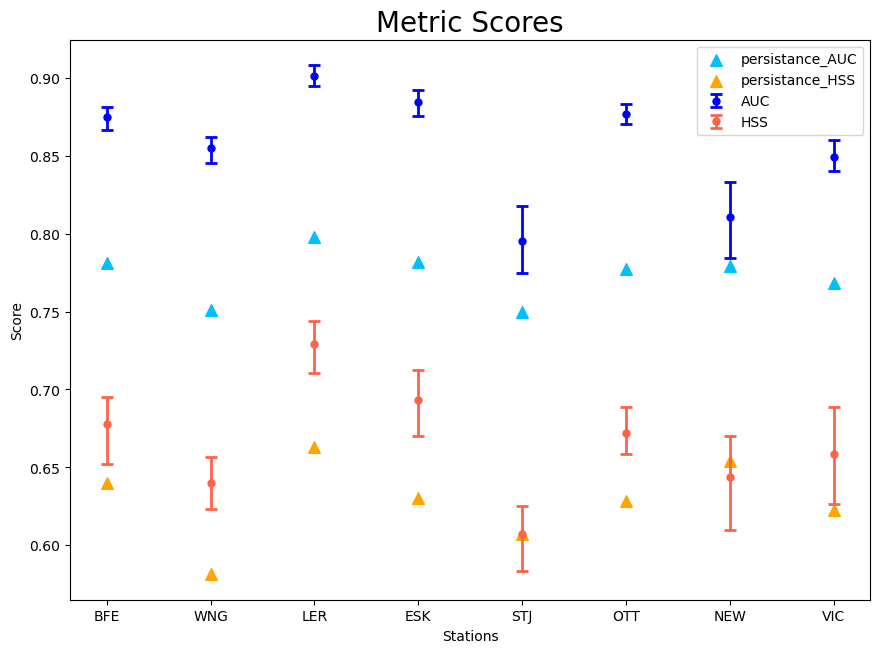
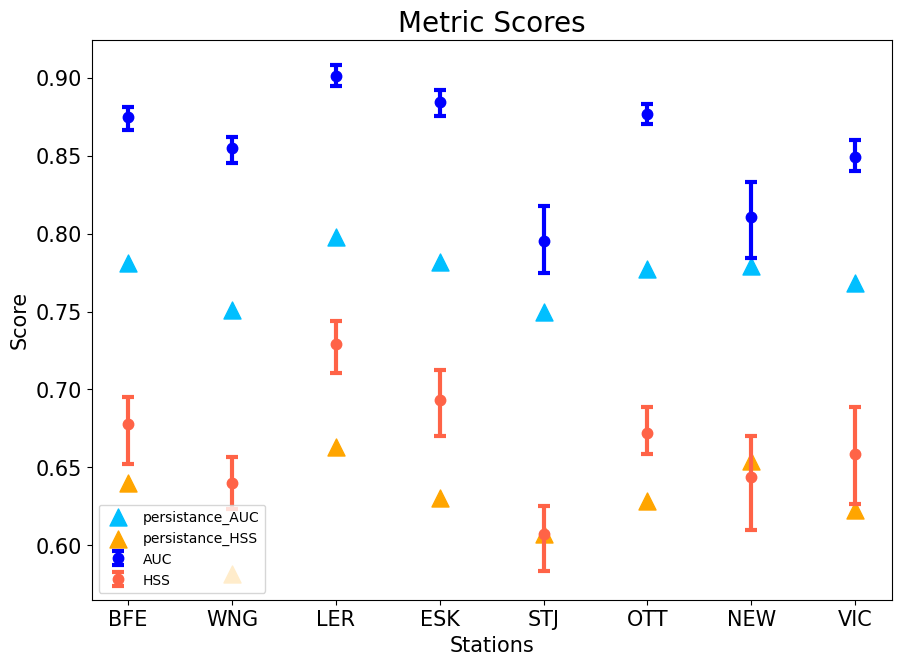
changing figs

diff --git a/plotting.py b/plotting.py
@@ -206,15 +206,15 @@ def plot_total_metrics(metrics_dict, stations, metrics=['HSS', 'AUC', 'RMSE']):
 		ymin0 = y0 - ymin0
 
 
-		ax.errorbar(X, y0, yerr=[ymin0, ymax0], fmt='.', color=color0, label='{0}'.format(metric), elinewidth=2, markersize=10, capsize=4, capthick=2)		# plotting the center point with the error bars. list order is important in the y array so it cooresponds to the x label
-		ax.scatter(X, metrics_dict['pers_{0}'.format(metric)], marker='^', color=color1, label='persistance_{0}'.format(metric), s=70)
+		ax.errorbar(X, y0, yerr=[ymin0, ymax0], fmt='.', color=color0, label='{0}'.format(metric), elinewidth=3, markersize=15, capsize=4, capthick=3)		# plotting the center point with the error bars. list order is important in the y array so it cooresponds to the x label
+		ax.scatter(X, metrics_dict['pers_{0}'.format(metric)], marker='^', color=color1, label='persistance_{0}'.format(metric), s=150)
 	# plt.ylim(0,1)																# keeping the plot within limits to eliminate as much white space as possible.
 	# plt.xlim(0,70)
-	plt.xlabel('Stations', fontsize='10')			# adding the label on the x axis label
-	plt.ylabel('Score', fontsize='10')				# adding teh y axis label
-	plt.xticks(X, stations, fontsize='10')		# adding ticks to the points on the x axis
-	plt.yticks(fontsize='10')						# making the y ticks a bit bigger. They're a bit more important
-	plt.legend(fontsize='10')
+	plt.xlabel('Stations', fontsize='15')			# adding the label on the x axis label
+	plt.ylabel('Score', fontsize='15')				# adding teh y axis label
+	plt.xticks(X, stations, fontsize='15')		# adding ticks to the points on the x axis
+	plt.yticks(fontsize='15')						# making the y ticks a bit bigger. They're a bit more important
+	plt.legend(fontsize='10', loc='lower left')
 
 	plt.savefig('plots/metrics_total.png', bbox_inches='tight')
 

diff --git a/data_distributions.py b/data_distributions.py
@@ -388,11 +388,11 @@ def plotting_data_distributions(all_data, train_data, test_data):
 	# ax.errorbar(x0, y0, yerr=[0,ystd0], fmt='.k', color='blue', label='All Data', elinewidth=5, markersize=50, capsize=25, capthick=5)		# plotting the center point with the error bars. list order is important in the y array so it cooresponds to the x label
 	# ax.errorbar(x1, y1, yerr=[0,ystd1], fmt='.k', color='orange', label='Train Data', elinewidth=5, markersize=50, capsize=25, capthick=5)		# plotting the center point with the error bars. list order is important in the y array so it cooresponds to the x label
 	# ax.errorbar(x2, y2, yerr=[0,ystd2], fmt='.k', color='green', label='Test Data', elinewidth=5, markersize=50, capsize=25, capthick=5)		# plotting the center point with the error bars. list order is important in the y array so it cooresponds to the x label
-	ax.scatter(x1, y0, marker='.', color='blue', label='All Data Mean', s=200)
+	ax.scatter(x1, y0, marker='s', color='blue', label='All Data Mean', s=100)
 	ax.scatter(x1, ystd0, marker='^', color='blue', label='All Data std', s=90)
-	ax.scatter(x1, y1, marker='.', color='orange', label='Train Data Mean', s=200)
+	ax.scatter(x1, y1, marker='s', color='orange', label='Train Data Mean', s=100)
 	ax.scatter(x1, ystd1, marker='^', color='orange', label='Train Data std', s=90)
-	ax.scatter(x1, y2, marker='.', color='green', label='Test Data Mean', s=200)
+	ax.scatter(x1, y2, marker='s', color='green', label='Test Data Mean', s=100)
 	ax.scatter(x1, ystd2, marker='^', color='green', label='Test Data std', s=90)
 	plt.xlabel('Stations', fontsize='15')			# adding the label on the x axis label
 	plt.ylabel('dB/dt (nT/min)', fontsize='15')				# adding teh y axis label
